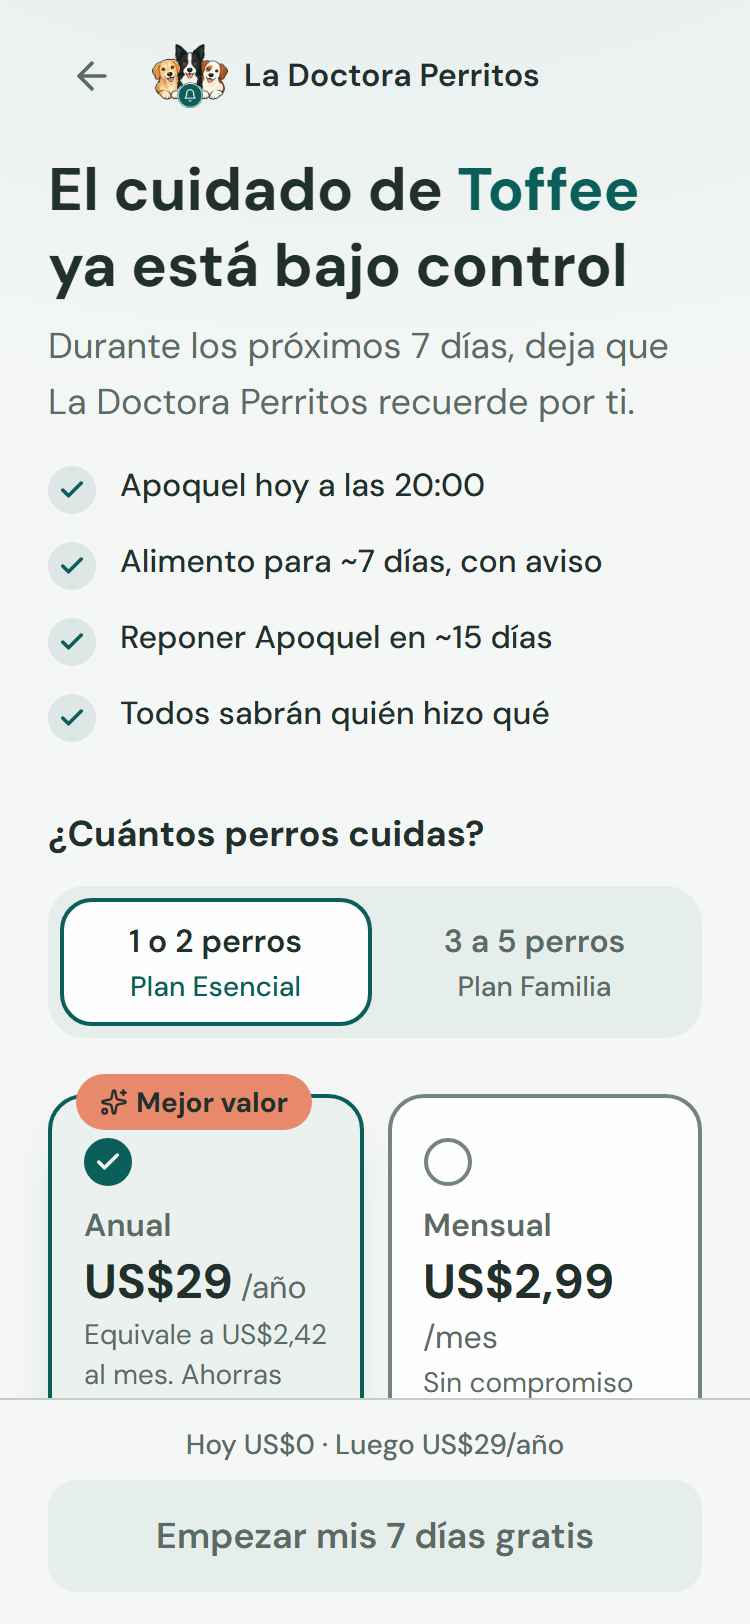
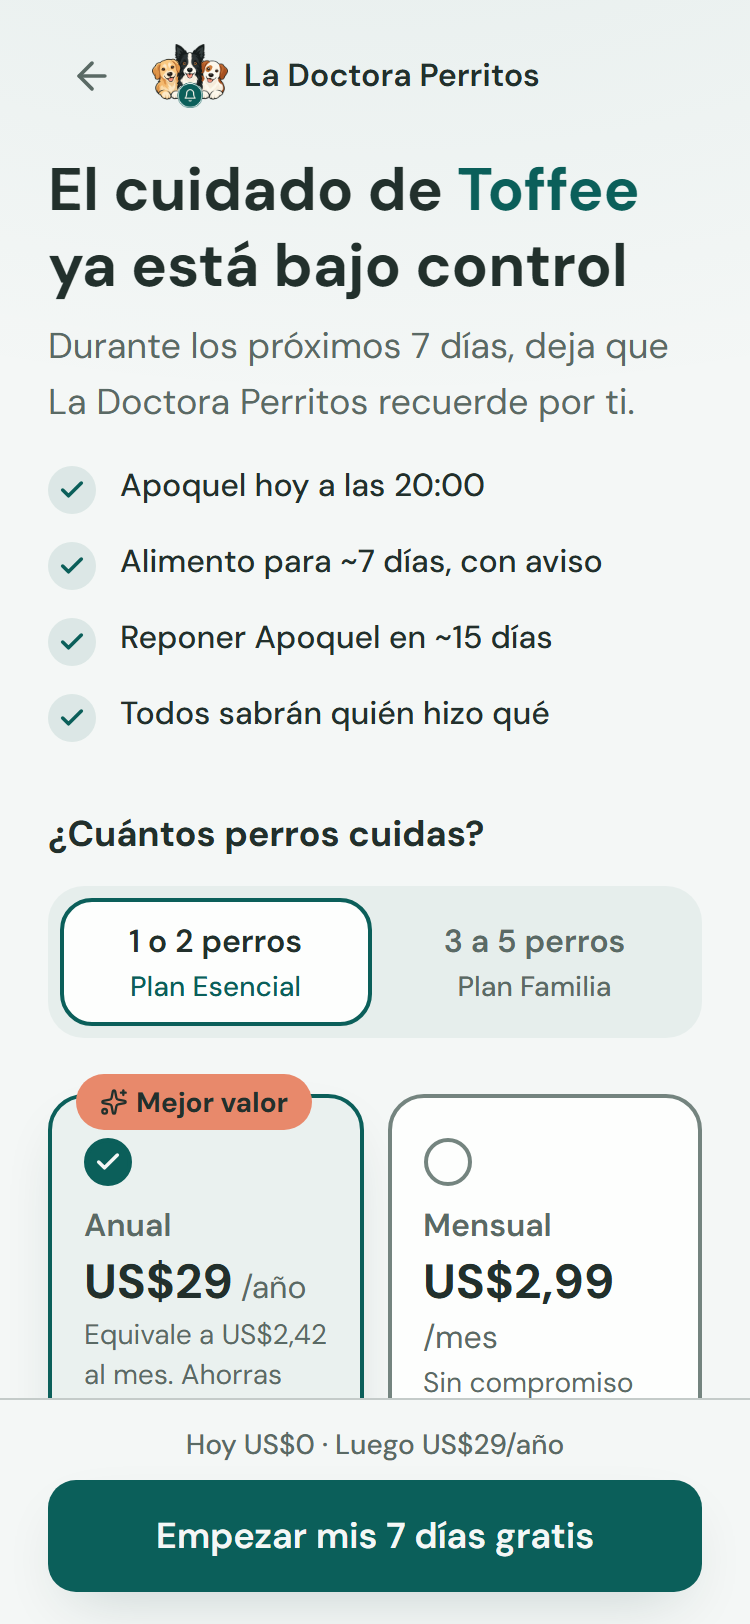
Paywall: correo de acceso antes del botón, prellenado al checkout

Changed region(s): [[0.0613, 0.8929, 0.9507, 0.9852]]

diff --git a/components/onboarding/Paywall.tsx b/components/onboarding/Paywall.tsx
@@ -5,14 +5,15 @@
 // prueba (hoy → aviso → cobro, con fechas reales) → garantía y pago seguro. El botón (fijo abajo) lleva
 // al checkout de Hotmart de ese plan y periodo (lib/hotmart.ts).
 
-import { useState, useSyncExternalStore } from 'react';
+import { useRef, useState, useSyncExternalStore } from 'react';
 import Link from 'next/link';
 import { MotionConfig, motion } from 'motion/react';
 import { ArrowLeft, Bell, Check, CreditCard, Lock, ShieldCheck, Sparkles } from 'lucide-react';
 import { addDays, CONDICIONES, formatFecha, hayGarantia, hayPrueba } from '@/lib/oferta';
 import { urlCheckout, type PeriodoPago } from '@/lib/hotmart';
-import { armarPanel, contarRespuestas, obtener, planRecomendado, suscribir, VACIAS, type IdPlan, type Respuestas } from '@/lib/onboarding';
+import { actualizar, armarPanel, contarRespuestas, obtener, planRecomendado, suscribir, VACIAS, type IdPlan, type Respuestas } from '@/lib/onboarding';
 import { PLANES } from '@/lib/planes';
+import { correoValido } from '@/lib/auth';
 import Marca from './Marca';
 
 const boton =
@@ -182,7 +183,26 @@ export default function Paywall() {
   const n = contarRespuestas(r);
   const importe = periodo === 'anio' ? P.anualTotal : P.mensual;
   const unidad = periodo === 'anio' ? '/año' : '/mes';
-  const checkout = urlCheckout(plan, periodo);
+  const [correo, setCorreo] = useState<string | null>(null);
+  const [intento, setIntento] = useState(false);
+  const [guardado, setGuardado] = useState(false);
+  const campoCorreo = useRef<HTMLInputElement>(null);
+  const correoActual = correo ?? r.correo;
+  const correoOk = correoValido(correoActual);
+  const empezar = () => {
+    setGuardado(false);
+    if (!correoOk) {
+      // El botón nunca queda «muerto»: dice qué falta y lleva al campo.
+      setIntento(true);
+      campoCorreo.current?.scrollIntoView({ block: 'center', behavior: 'smooth' });
+      campoCorreo.current?.focus();
+      return;
+    }
+    actualizar({ correo: correoActual.trim() });
+    const destino = urlCheckout(plan, periodo, correoActual);
+    if (destino) window.location.assign(destino);
+    else setGuardado(true);
+  };
   const etiquetaBoton = hayPrueba() ? `Empezar mis ${CONDICIONES.prueba.dias} días gratis` : 'Empezar ahora';
 
   // Sin respuestas no hay Panel que proteger: se le lleva a armarlo primero.
@@ -265,6 +285,35 @@ export default function Paywall() {
           </div>
         </section>
 
+        <section aria-label="Tu correo de acceso" className="mt-8">
+          <h2 className="text-lg font-bold">¿A qué correo te enviamos tu acceso?</h2>
+          <p className="mt-1 text-base text-[var(--text-secondary)]">Con este correo entras al Panel de {nombre || 'tu perro'}. Sin contraseñas: te mandamos un enlace.</p>
+          <label htmlFor="correo" className="sr-only">
+            Tu correo
+          </label>
+          <input
+            id="correo"
+            ref={campoCorreo}
+            type="email"
+            inputMode="email"
+            autoComplete="email"
+            value={correoActual}
+            placeholder="tucorreo@ejemplo.com"
+            aria-describedby="ayuda-correo"
+            aria-invalid={intento && !correoOk}
+            onChange={(e) => {
+              setCorreo(e.target.value);
+              setIntento(false);
+            }}
+            className={`mt-3 h-14 w-full rounded-[var(--radius-card)] border-2 bg-[var(--surface)] px-4 text-lg font-semibold outline-none placeholder:font-normal placeholder:text-[var(--text-secondary)] focus:border-[var(--accent)] ${
+              intento && !correoOk ? 'border-[var(--accent)] ring-4 ring-[color-mix(in_oklab,var(--accent)_25%,transparent)]' : 'border-[var(--border-ui)]'
+            }`}
+          />
+          <p id="ayuda-correo" role="status" aria-live="polite" className={`mt-2 text-sm ${intento && !correoOk ? 'font-semibold text-[var(--text-primary)]' : 'text-[var(--text-secondary)]'}`}>
+            {intento && !correoOk ? 'Escribe un correo válido, por ejemplo nombre@correo.com.' : 'Solo lo usamos para tu acceso y los avisos de tu prueba.'}
+          </p>
+        </section>
+
         {hayPrueba() && <LineaTiempo importe={importe} unidad={unidad} />}
 
         <section aria-label="Tu tranquilidad" className="borde-degradado mt-6 flex flex-col gap-3 rounded-[var(--radius-card)] p-4 shadow-[var(--shadow-1)]">
@@ -305,14 +354,13 @@ export default function Paywall() {
           {hayPrueba() ? 'Hoy US$0' : `Hoy ${importe}`} · Luego {importe}
           {unidad} 
         </p>
-        {checkout ? (
-          <a href={checkout} className={boton}>
-            {etiquetaBoton}
-          </a>
-        ) : (
-          <button type="button" disabled className={boton}>
-            {etiquetaBoton}
-          </button>
+        <button type="button" onClick={empezar} className={boton}>
+          {etiquetaBoton}
+        </button>
+        {guardado && (
+          <p role="status" className="text-center text-sm font-semibold">
+            Guardamos tu correo. El pago se activa muy pronto.
+          </p>
         )}
       </div>
     </div>

diff --git a/lib/hotmart.ts b/lib/hotmart.ts
@@ -16,7 +16,12 @@ const URLS: Record<IdPlan, Record<PeriodoPago, string | undefined>> = {
   },
 };
 
-export function urlCheckout(plan: IdPlan, periodo: PeriodoPago): string | null {
-  const url = URLS[plan][periodo];
-  return url && url.startsWith('https://') ? url : null;
+/** `correo` se lleva prellenado a la página de pago para que el correo de compra y el de acceso sean el mismo. */
+export function urlCheckout(plan: IdPlan, periodo: PeriodoPago, correo?: string): string | null {
+  const base = URLS[plan][periodo];
+  if (!base || !base.startsWith('https://')) return null;
+  if (!correo) return base;
+  const url = new URL(base);
+  url.searchParams.set('email', correo.trim());
+  return url.toString();
 }

diff --git a/lib/onboarding.ts b/lib/onboarding.ts
@@ -32,6 +32,8 @@ export interface Respuestas {
   controlCuando: Cuando | null;
   cuidadores: Cuidadores | null;
   avisos: Avisos | null;
+  /** Correo con el que entrará a su Panel: se lleva prellenado al pago para que coincida. */
+  correo: string;
   /** Primera victoria: marcó como «dado» el primer cuidado de su Panel de Hoy. */
   primeraVictoria: boolean;
 }
@@ -49,6 +51,7 @@ export const VACIAS: Respuestas = {
   controlCuando: null,
   cuidadores: null,
   avisos: null,
+  correo: '',
   primeraVictoria: false,
 };
 
